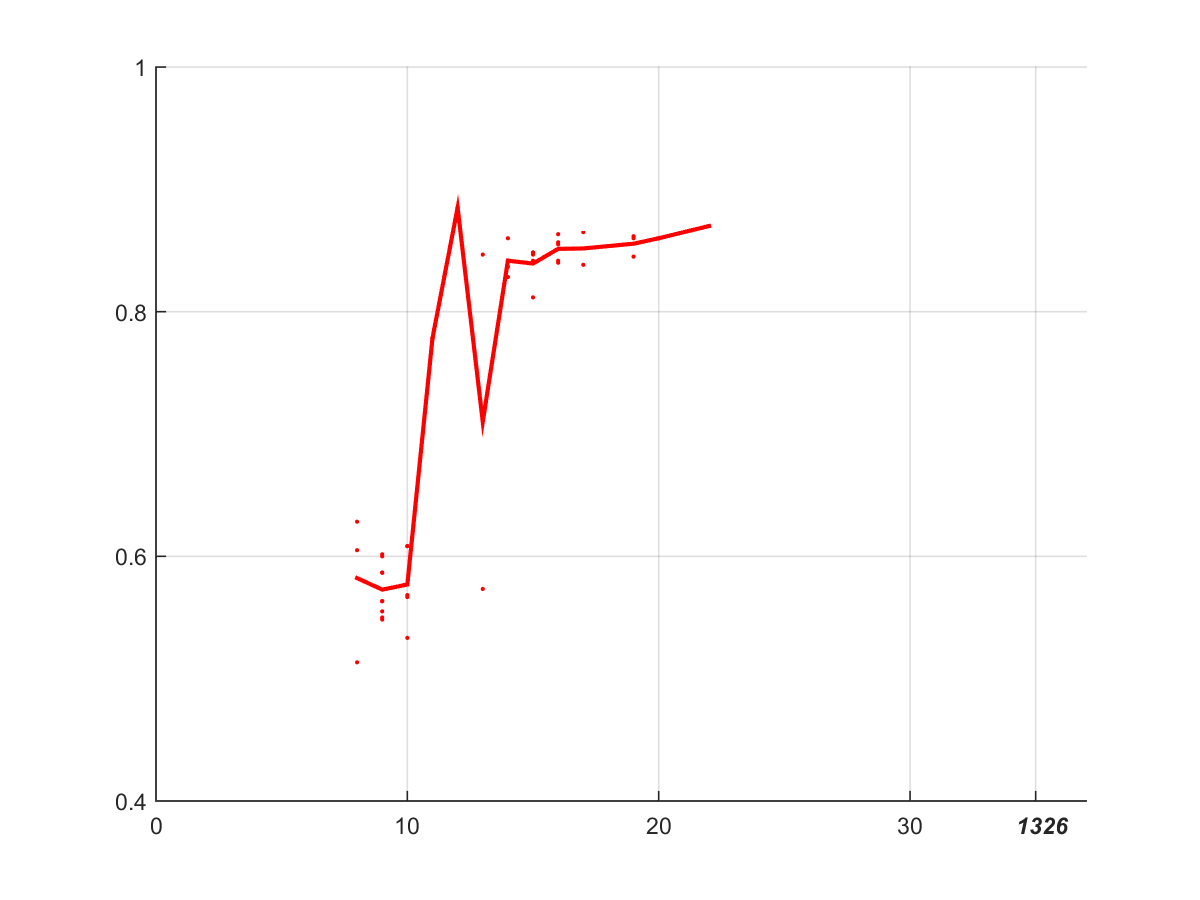
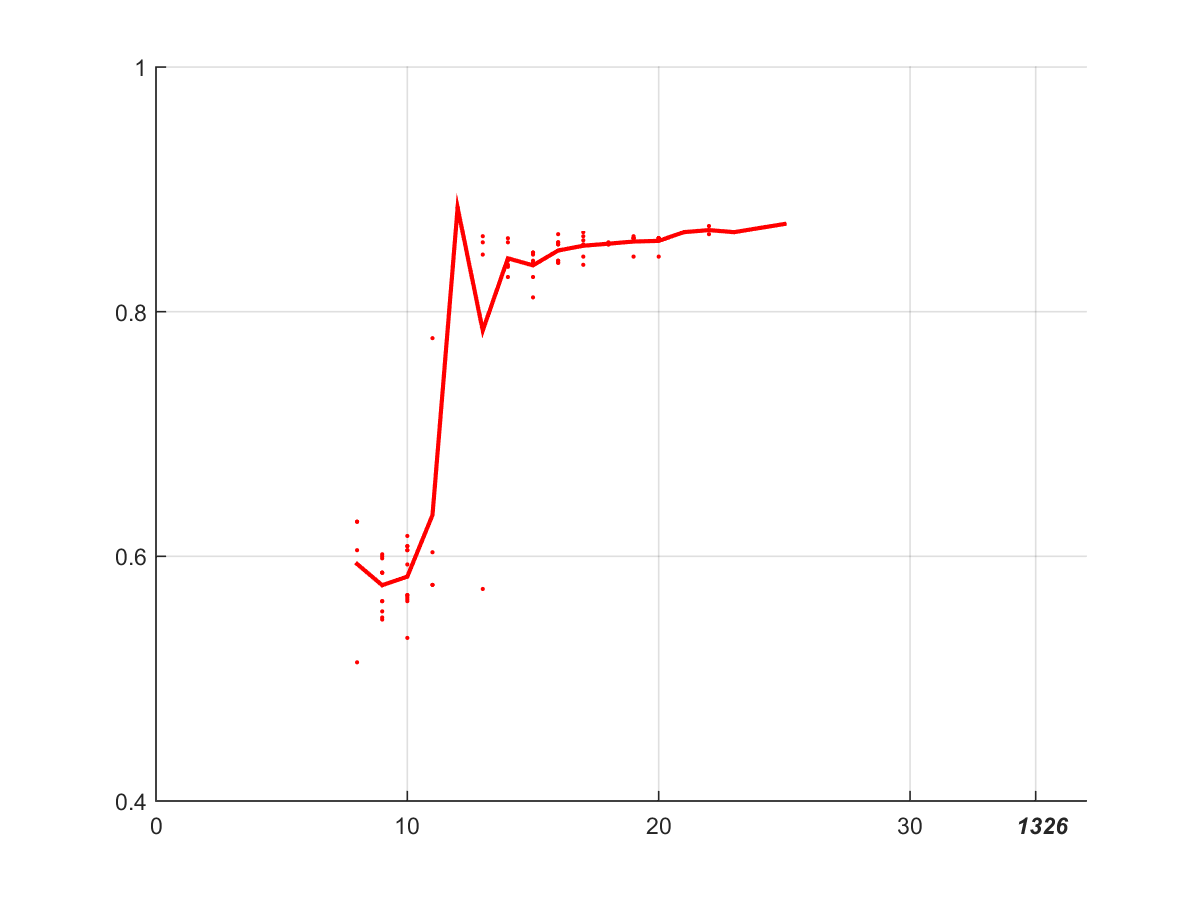
pushing data from more runs 14

Changed region(s): [[0.2775, 0.2489, 0.4625, 0.6533], [0.4625, 0.2489, 0.6475, 0.28]]

diff --git a/scripts/run_Figure1.m b/scripts/run_Figure1.m
@@ -17,6 +17,10 @@ addpathFolderStructure()
 w = warning ('off','all');
 
 %% 
+overflow_loc = 'D:\Mijn_documenten\Dropbox\A. PhD\C. Papers\ch_Wingsensors\Mohren_WingSparseSensors_githubOverflow';
+addpath(overflow_loc)
+addpath( 'data')
+
 
 % parameterSetName    = 'R1R2withExpFilterIter5';
 % parameterSetName    = 'subPartPaperR1Iter5_delay3_6';
@@ -42,8 +46,10 @@ w = warning ('off','all');
 % parameterSetName    = 'subPartPaperR1Iter5_delay4_singValsMult1_eNet05_thresholdTest2';
 % parameterSetName    = 'subPartPaperR1Iter5_delay4_singValsMult1_eNet09_reweighW';
 % parameterSetName    = 'subPartPaperR1Iter5_delay4_singValsMult1_eNet09';
-parameterSetName    = 'subPartPaperR1Iter3_delay5_singValsMult1_eNet095';
-
+% parameterSetName    = 'subPartPaperR1Iter3_delay5_singValsMult1_eNet095';
+overflow_loc = 'D:\Mijn_documenten\Dropbox\A. PhD\C. Papers\ch_Wingsensors\Mohren_WingSparseSensors_githubOverflow';
+addpath(overflow_loc)
+addpath( 'data')
 load(['data' filesep 'parameterSet_', parameterSetName])
 
 figMatch = find(~cellfun('isempty', strfind({varParCombinationsAll.resultName} , 'R1_disturbance' )));

diff --git a/scripts/run_Figure2A.m b/scripts/run_Figure2A.m
@@ -16,7 +16,6 @@ addpath([scriptLocation filesep 'scripts']);
 addpathFolderStructure()
 w = warning ('off','all');
 
-overflow_loc = 'D:\Mijn_documenten\Dropbox\A. PhD\C. Papers\ch_Wingsensors\Mohren_WingSparseSensors_githubOverflow';
 %% 
 % parameterSetName    = 'R1R2withExpFilterIter5';
 % parameterSetName    = 'R1toR4Iter10_delay4';
@@ -29,6 +28,7 @@ parameterSetName    = 'subPartPaperR1Iter3_delay5_singValsMult1_eNet085';
 % parameterSetName   = 'R1R2Iter7_delay3_singValsMult1_eNet09'
 
 % load(['data' filesep 'parameterSet_', parameterSetName ])
+overflow_loc = 'D:\Mijn_documenten\Dropbox\A. PhD\C. Papers\ch_Wingsensors\Mohren_WingSparseSensors_githubOverflow';
 addpath(overflow_loc)
 addpath( 'data')
 load(['parameterSet_' parameterSetName ])

diff --git a/scripts/run_subPartPaperAnalysis.m b/scripts/run_subPartPaperAnalysis.m
@@ -24,7 +24,7 @@ addpathFolderStructure()
 % parameterSetName    = 'R1toR4Iter10_delay4';
 % parameterSetName    = 'subPartPaperR1Iter5_delay4';
 
-parameterSetName    = 'subPartPaperR1Iter3_delay5_singValsMult1_eNet095';
+parameterSetName    = 'subPartPaperR1Iter3_delay5_singValsMult1_eNet085';
 
 
 iter                = 3;
